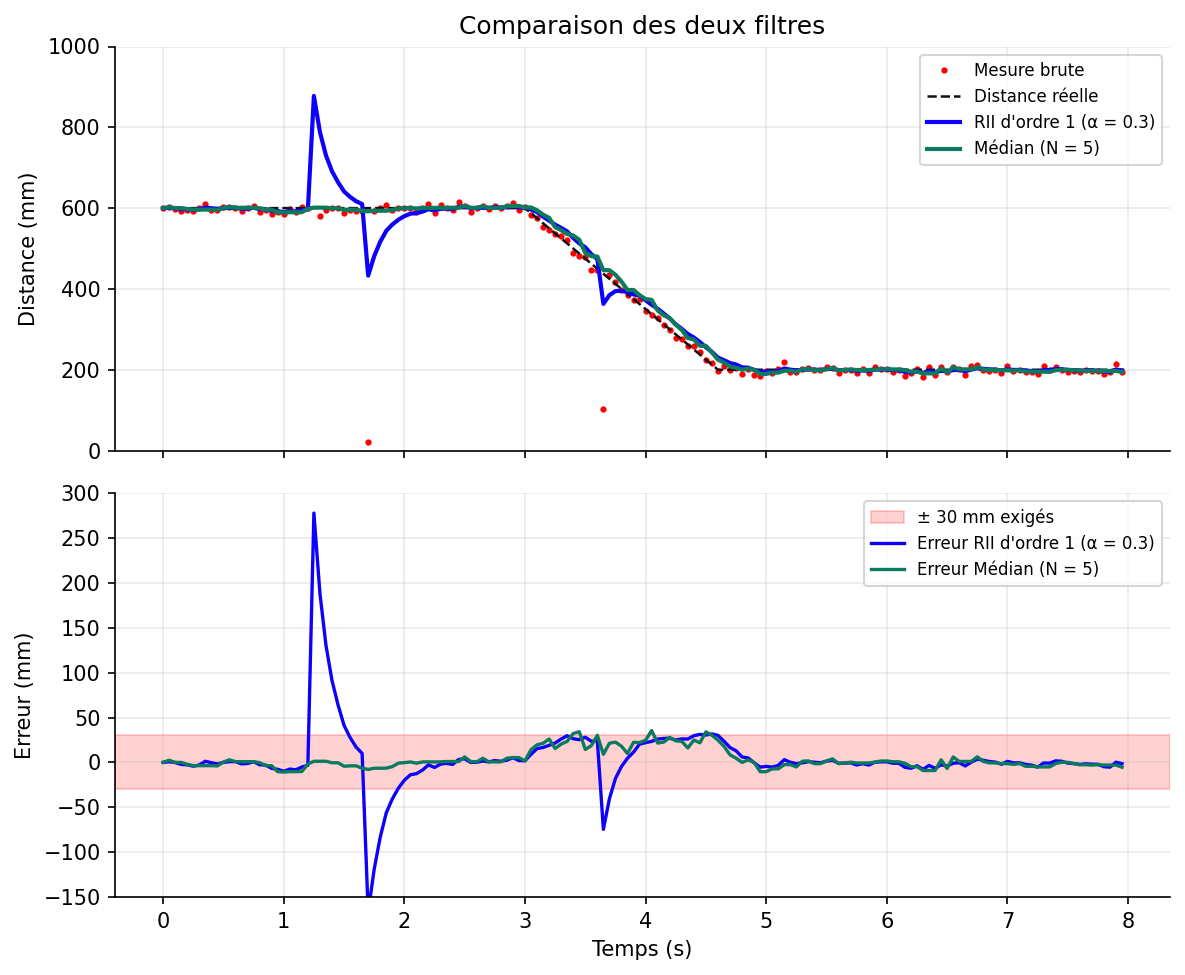
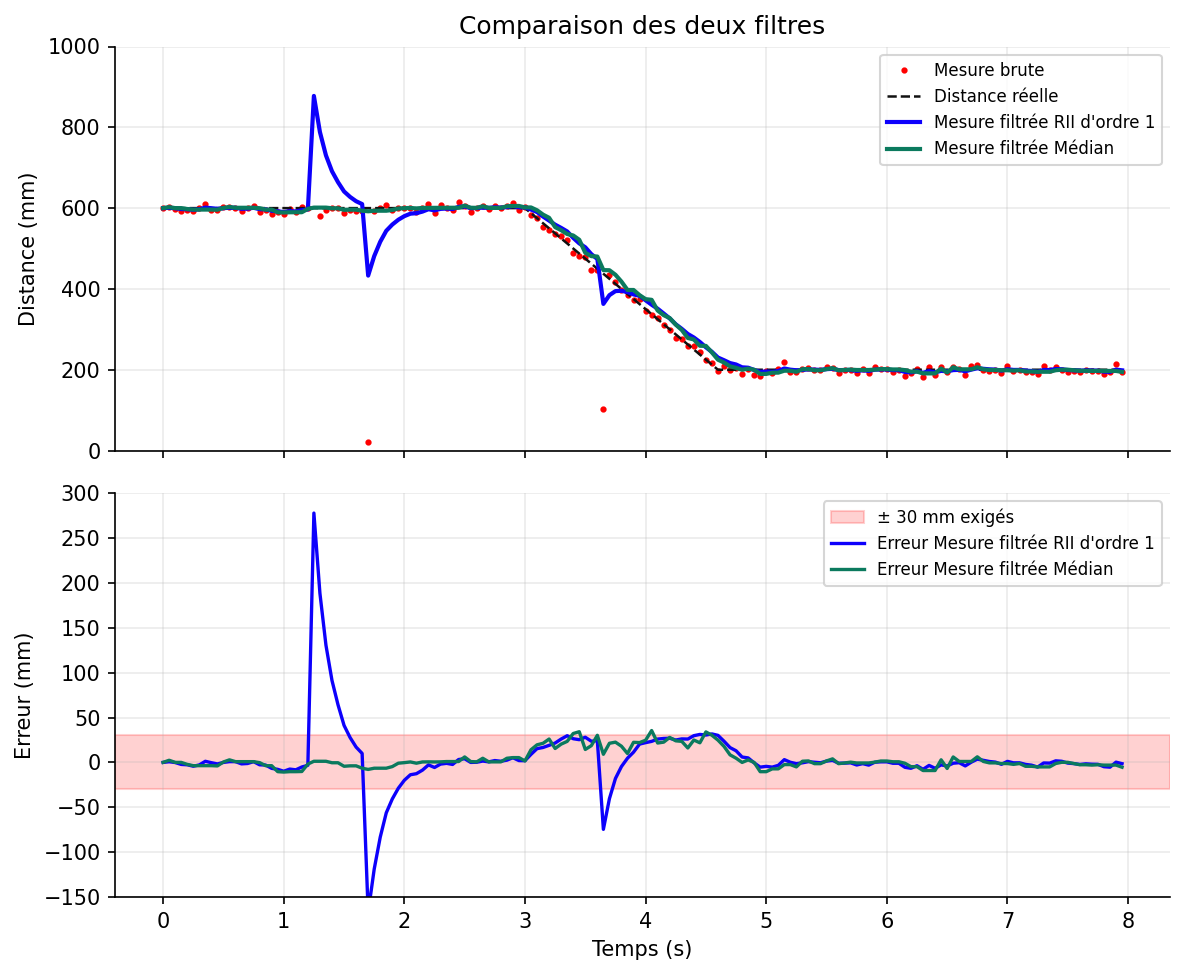
figurePython

Changed region(s): [[0.6869, 0.5231, 0.9679, 0.6154], [0.7494, 0.0615, 0.9679, 0.1846]]

diff --git a/tools/filtres/generer_figures.py b/tools/filtres/generer_figures.py
@@ -70,7 +70,7 @@ FIG2_MEDIAN = {
     "xlabel": "Temps (s)",
     "ylabel": "Distance (mm)",
     "ylim": (0, 1000),
-    "legende_filtre": f"Médian (N = {TAILLE_N})",
+    "legende_filtre": f"Mesure filtrée",
     "legende_mesure": "Mesure brute",
     "legende_reel": "Distance réelle",
     "legende_pos": "upper right",
@@ -92,8 +92,8 @@ FIG3_COMPARAISON = {
     "ylabel_bas": "Erreur (mm)",
     "ylim_haut": (0, 1000),
     "ylim_bas": (-150, 300),
-    "legende_iir": f"RII d'ordre 1 (α = {ALPHA})",
-    "legende_median": f"Médian (N = {TAILLE_N})",
+    "legende_iir": f"Mesure filtrée RII d'ordre 1",
+    "legende_median": f"Mesure filtrée Médian",
     "legende_mesure": "Mesure brute",
     "legende_reel": "Distance réelle",
     "legende_tolerance": f"± {TOLERANCE_MM} mm exigés",
